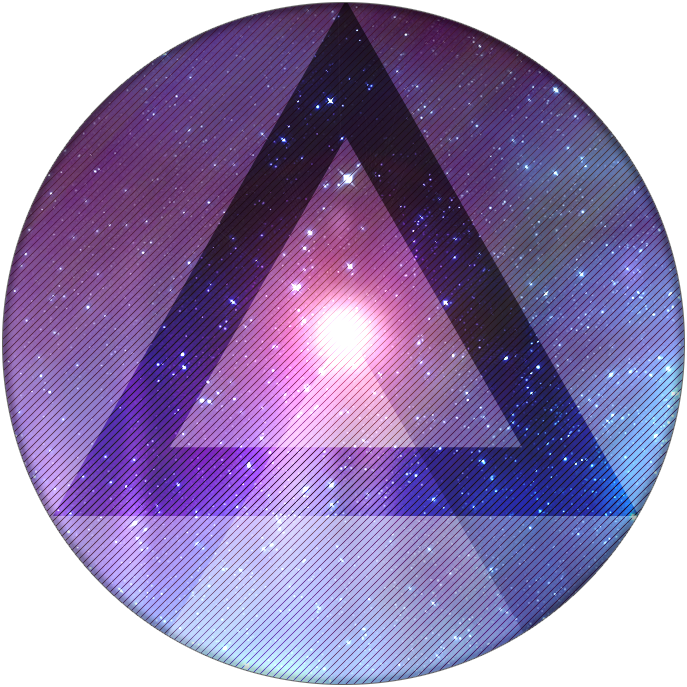
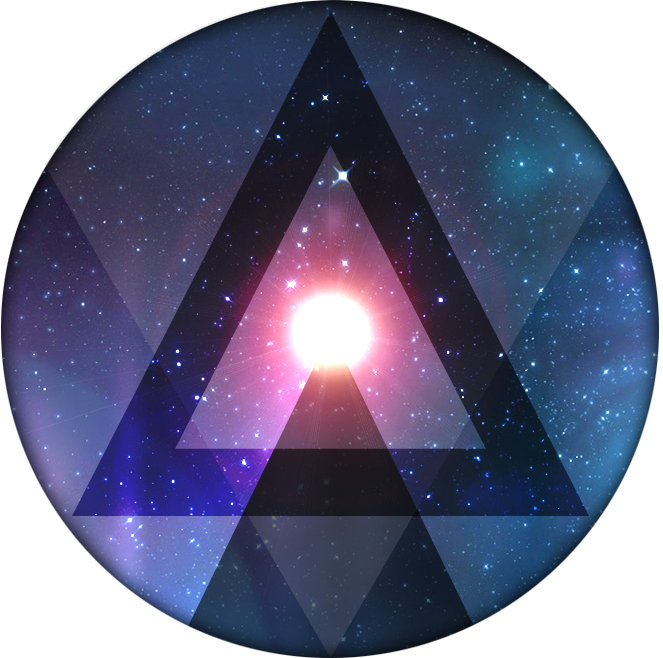
orbital

diff --git a/app/scripts/main.js b/app/scripts/main.js
@@ -44,8 +44,8 @@ var Particle = (function(){
 	}
 
 	Particle.prototype.draw = function (){		
-    this.circle.x = ((this.radius - 20 + (this.sine() * this.amplitude )) * Math.cos( this.config.angle ) + this.radius);
-	  this.circle.y = ((this.radius - 20 + (this.sine() * this.amplitude )) * Math.sin( this.config.angle ) + this.radius);
+    this.circle.x = ((this.radius - 90 + (this.sine() * this.amplitude )) * Math.cos( this.config.angle ) + this.radius);
+	  this.circle.y = ((this.radius - 210 + (this.sine() * this.amplitude )) * Math.sin( this.config.angle ) + this.radius);
 	  
 	  this.config.angle += (Math.PI * 2 / this.config.friction) * this.config.direction;
 
@@ -60,9 +60,9 @@ var Particle = (function(){
 
 	Particle.prototype.getColor = function(){
 		var colors = [
-		"rgba(0,216,255,"+Utils.range(0.3,0.8)+")",
-		"rgba(255,0,246,"+Utils.range(0.3,0.8)+")",
-		"rgba(0,255,54,"+Utils.range(0.3,0.8)+")"
+		"rgba(66,42,121,"+Utils.range(0.3,0.7)+")",
+		"rgba(136,95,164,"+Utils.range(0.3,0.8)+")",
+		"rgba(227,136,197,"+Utils.range(0.3,0.8)+")"
 		];
 		return colors[Math.floor(Math.random()*colors.length)];
 	}
@@ -85,7 +85,7 @@ var ArcReactor = (function(Particle){
 		//ctx.globalCompositeOperation = 'lighter';
 
 		this.stage = new createjs.Stage(this.canvas);
-		this.numParticles = 1000;
+		this.numParticles = 100;
 		this.radius = this.stage.canvas.width / 2;
 		this.particles = [];
 
@@ -99,11 +99,11 @@ var ArcReactor = (function(Particle){
 
 		for(var i=0; i < this.numParticles; i++){
 			this.particles.push(new Particle(this.stage, this.radius, {
-				size :           Utils.range(0.5, 5) ,
+				size :           Utils.range(0.5, 1.5) ,
 				friction :       Utils.range(200, 300),
-				sineWavePeriod : Utils.range(100, 150),
+				sineWavePeriod : Utils.range(400, 450),
 				angle : Math.PI * 2 / Math.random(),
-				direction : directions[Math.floor(Math.random()*directions.length)]
+				direction : 1//directions[Math.floor(Math.random()*directions.length)]
 			}));
 		}
     

diff --git a/app/styles/main.scss b/app/styles/main.scss
@@ -23,6 +23,6 @@ canvas{
   margin: 200px auto; 
   display: block;
   background: url(../images/emblem.png) no-repeat center center;
-  background-size: 450px auto;
+  background-size: 395px auto;
   
 }
